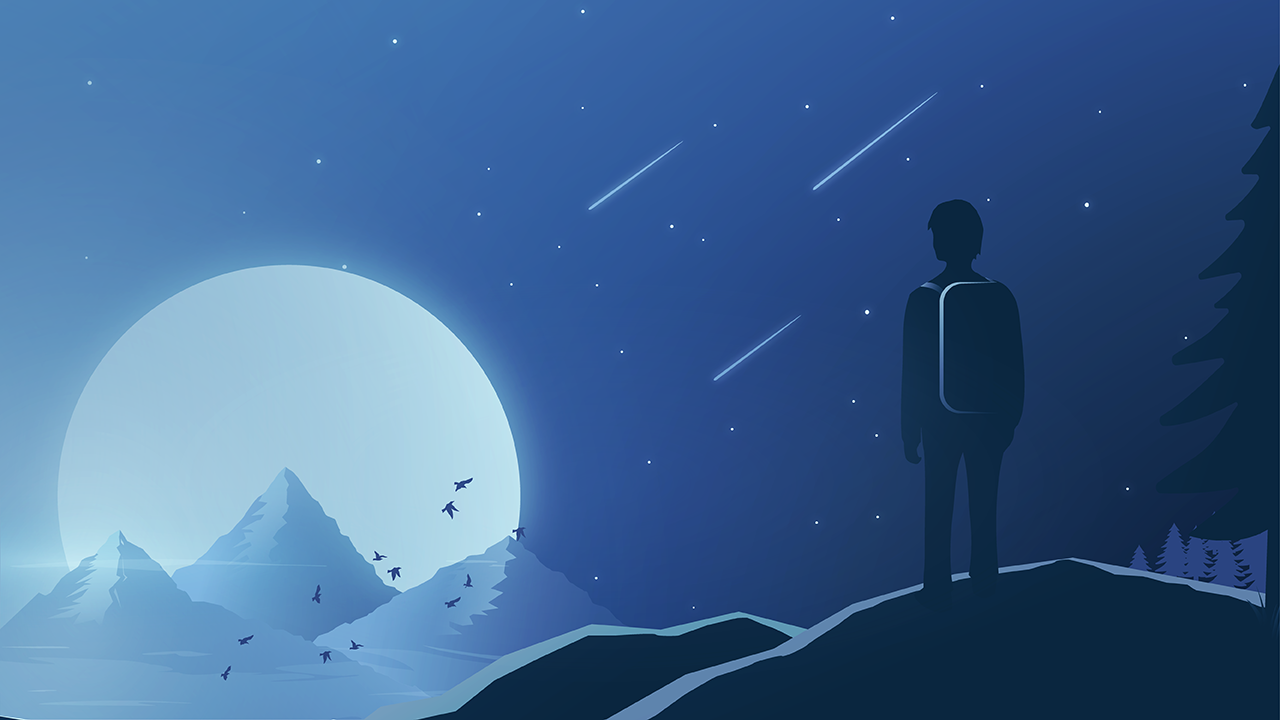
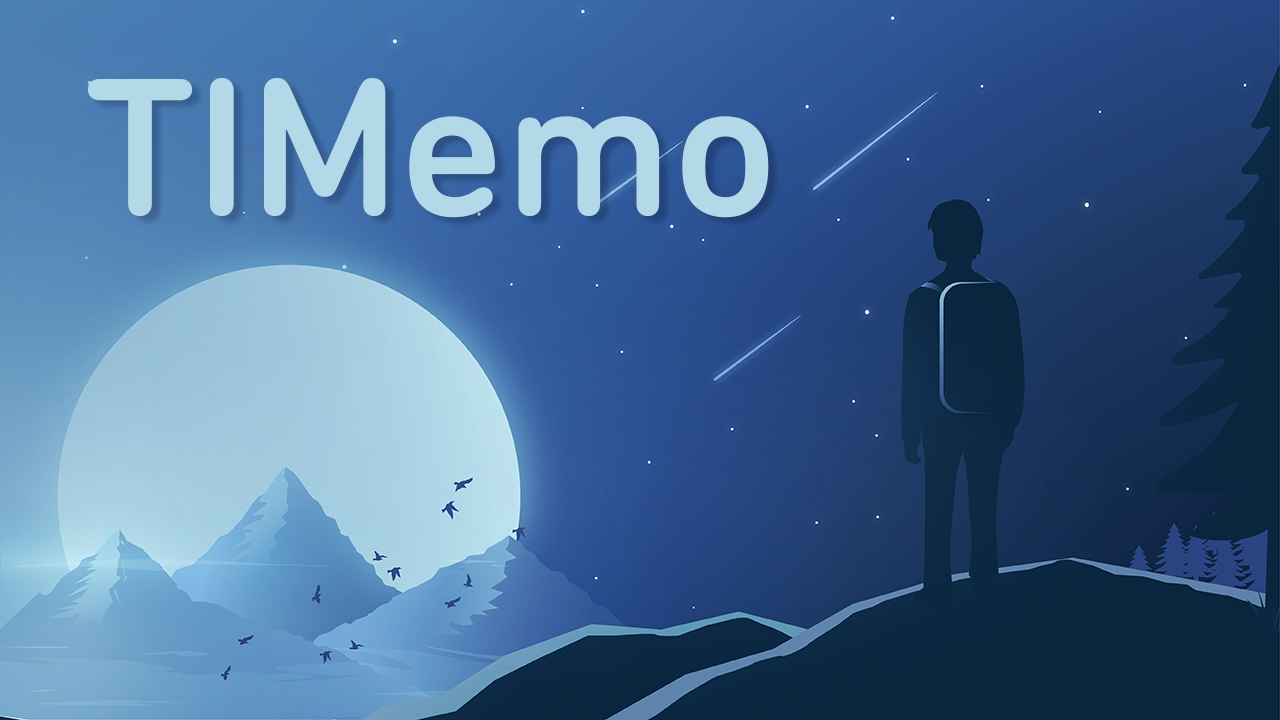
fix(og:image): 修改og:image

Changed region(s): [[0.0625, 0.0917, 0.625, 0.3056]]

diff --git a/docusaurus.config.js b/docusaurus.config.js
@@ -20,8 +20,8 @@ const config = {
 
   // GitHub pages deployment config.
   // If you aren't using GitHub pages, you don't need these.
-  organizationName: 'tingminitime', // Usually your GitHub org/user name.
-  projectName: 'timemo', // Usually your repo name.
+  organizationName: organizationName, // Usually your GitHub org/user name.
+  projectName: projectName, // Usually your repo name.
 
   // Even if you don't use internalization, you can use this field to set useful
   // metadata like html lang. For example, if your site is Chinese, you may want
@@ -205,6 +205,7 @@ const config = {
       liveCodeBlock: {
         playgroundPosition: 'bottom',
       },
+      image: 'img/og-img.png',
     }),
 }
 
